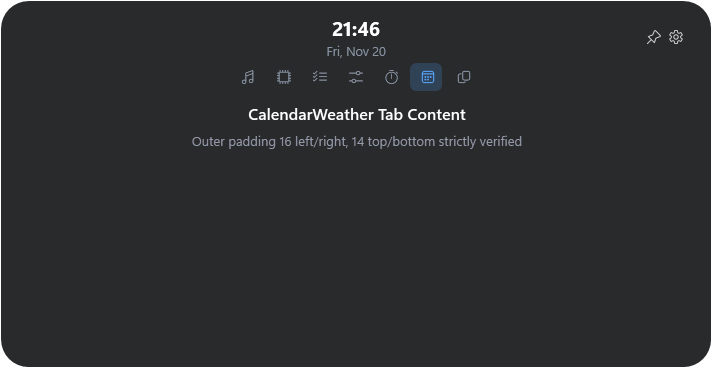
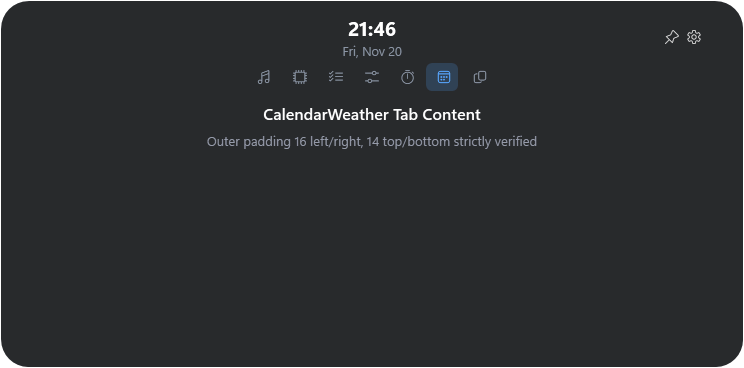
fix(shell): inset content from visible notch walls, remove rounded content clip

diff --git a/src/Island.App/Design/DesignTokens.xaml b/src/Island.App/Design/DesignTokens.xaml
@@ -30,6 +30,8 @@
 
     <!-- SINGLE ROOT PADDING OWNER (16 DIP left/right, 14 DIP top/bottom) -->
     <Thickness x:Key="Padding.Island">16,14,16,14</Thickness>
+    <sys:Double x:Key="Island.WallInset">30</sys:Double>
+    <sys:Double x:Key="Island.HorizontalInset">60</sys:Double>
     <Thickness x:Key="Padding.Card">0</Thickness>
     <Thickness x:Key="Padding.Page">0</Thickness>
     <Thickness x:Key="Margin.Card">0</Thickness>

diff --git a/tests/Island.Tests/AuditCaptureRunner.cs b/tests/Island.Tests/AuditCaptureRunner.cs
@@ -1257,7 +1257,7 @@ public sealed class AuditCaptureRunner
                         _ => 170
                     };
 
-                    int widthDip = (int)(Math.Ceiling((contentW + 32.0) / 8.0) * 8.0);
+                    int widthDip = (int)(Math.Ceiling((contentW + 60.0) / 8.0) * 8.0);
                     int heightDip = (int)(Math.Ceiling((contentH + 116.0) / 8.0) * 8.0);
 
                     var islandShell = new Border
@@ -1268,7 +1268,7 @@ public sealed class AuditCaptureRunner
                         BorderBrush = new SolidColorBrush(Color.FromArgb(60, 255, 255, 255)),
                         BorderThickness = new Thickness(1),
                         CornerRadius = new CornerRadius(28),
-                        Padding = new Thickness(16, 14, 16, 14)
+                        Padding = new Thickness(30, 14, 30, 14)
                     };
 
                     foreach (var key in appResources.Keys)
@@ -1368,17 +1368,69 @@ public sealed class AuditCaptureRunner
                     Grid.SetRow(tabBarGrid, 1);
                     layout.Children.Add(tabBarGrid);
 
-                    // Content Container with rounded clip inset by 1 px
+                    // Content Container with rectangular clip (no corner rounding cutting into content)
                     var contentHost = new Border
                     {
                         Width = contentW,
                         Height = contentH,
-                        Clip = new RectangleGeometry(new Rect(0, 0, contentW, contentH), 27, 27)
+                        Clip = new RectangleGeometry(new Rect(0, 0, contentW, contentH))
                     };
 
                     var contentStack = new StackPanel();
 
-                    if (tab == "System")
+                    if (tab == "Music")
+                    {
+                        var dock = new DockPanel { Margin = new Thickness(0, 0, 0, 6) };
+                        var meter = new TextBlock { Text = "•••", FontFamily = new FontFamily("Segoe Fluent Icons, Segoe MDL2 Assets"), FontSize = 14, Foreground = new SolidColorBrush(Color.FromRgb(88, 166, 255)), VerticalAlignment = VerticalAlignment.Center };
+                        DockPanel.SetDock(meter, Dock.Right);
+                        dock.Children.Add(meter);
+
+                        var braveChip = new Border
+                        {
+                            Background = new SolidColorBrush(Color.FromArgb(40, 255, 255, 255)),
+                            CornerRadius = new CornerRadius(6),
+                            Padding = new Thickness(7, 2, 7, 2),
+                            HorizontalAlignment = HorizontalAlignment.Left
+                        };
+                        var chipSp = new StackPanel { Orientation = Orientation.Horizontal };
+                        chipSp.Children.Add(new TextBlock { Text = "\uE774", FontFamily = new FontFamily("Segoe Fluent Icons, Segoe MDL2 Assets"), FontSize = 12, Foreground = new SolidColorBrush(Color.FromRgb(88, 166, 255)), Margin = new Thickness(0, 0, 6, 0), VerticalAlignment = VerticalAlignment.Center });
+                        chipSp.Children.Add(new TextBlock { Text = "Brave", FontSize = 12.5, FontWeight = FontWeights.SemiBold, Foreground = Brushes.White, VerticalAlignment = VerticalAlignment.Center });
+                        braveChip.Child = chipSp;
+                        dock.Children.Add(braveChip);
+                        contentStack.Children.Add(dock);
+
+                        // Cover & Track Info
+                        var trackGrid = new Grid { Margin = new Thickness(0, 2, 0, 6) };
+                        trackGrid.ColumnDefinitions.Add(new ColumnDefinition { Width = new GridLength(80) });
+                        trackGrid.ColumnDefinitions.Add(new ColumnDefinition { Width = new GridLength(14) });
+                        trackGrid.ColumnDefinitions.Add(new ColumnDefinition { Width = new GridLength(1, GridUnitType.Star) });
+
+                        var cover = new Border { Width = 80, Height = 80, Background = new SolidColorBrush(Color.FromRgb(25, 30, 38)), CornerRadius = new CornerRadius(16), Child = new TextBlock { Text = "\uE8D6", FontFamily = new FontFamily("Segoe Fluent Icons, Segoe MDL2 Assets"), FontSize = 28, Foreground = Brushes.Gray, HorizontalAlignment = HorizontalAlignment.Center, VerticalAlignment = VerticalAlignment.Center } };
+                        Grid.SetColumn(cover, 0);
+                        trackGrid.Children.Add(cover);
+
+                        var meta = new StackPanel { VerticalAlignment = VerticalAlignment.Center };
+                        meta.Children.Add(new TextBlock { Text = "Starboy", FontFamily = (FontFamily)appResources["Typography.Family.Heading"], FontSize = 17, FontWeight = FontWeights.SemiBold, Foreground = Brushes.White });
+                        meta.Children.Add(new TextBlock { Text = "The Weeknd, Daft Punk", FontFamily = (FontFamily)appResources["Typography.Family.Body"], FontSize = 14, Foreground = new SolidColorBrush(Color.FromRgb(150, 155, 170)), Margin = new Thickness(0, 2, 0, 0) });
+                        Grid.SetColumn(meta, 2);
+                        trackGrid.Children.Add(meta);
+                        contentStack.Children.Add(trackGrid);
+
+                        // Seek rail with time labels
+                        var seekGrid = new Grid { Margin = new Thickness(0, 2, 0, 4) };
+                        seekGrid.ColumnDefinitions.Add(new ColumnDefinition { Width = new GridLength(1, GridUnitType.Auto) });
+                        seekGrid.ColumnDefinitions.Add(new ColumnDefinition { Width = new GridLength(1, GridUnitType.Star) });
+                        seekGrid.ColumnDefinitions.Add(new ColumnDefinition { Width = new GridLength(1, GridUnitType.Auto) });
+                        seekGrid.Children.Add(new TextBlock { Text = "1:24", FontFamily = (FontFamily)appResources["Typography.Family.Numeric"], FontSize = 12.5, Foreground = Brushes.Gray });
+                        var barBorder = new Border { Height = 4, Background = new SolidColorBrush(Color.FromRgb(88, 166, 255)), CornerRadius = new CornerRadius(2), Margin = new Thickness(10, 0, 10, 0), VerticalAlignment = VerticalAlignment.Center };
+                        Grid.SetColumn(barBorder, 1);
+                        seekGrid.Children.Add(barBorder);
+                        var durText = new TextBlock { Text = "3:50", FontFamily = (FontFamily)appResources["Typography.Family.Numeric"], FontSize = 12.5, Foreground = Brushes.Gray };
+                        Grid.SetColumn(durText, 2);
+                        seekGrid.Children.Add(durText);
+                        contentStack.Children.Add(seekGrid);
+                    }
+                    else if (tab == "System")
                     {
                         var bento = new Grid();
                         bento.ColumnDefinitions.Add(new ColumnDefinition { Width = new GridLength(1, GridUnitType.Star) });
@@ -1392,7 +1444,15 @@ public sealed class AuditCaptureRunner
                         bento.Children.Add(leftStack);
 
                         var rightStack = new StackPanel { Margin = new Thickness(6, 0, 0, 0) };
-                        rightStack.Children.Add(new TextBlock { Text = "Top Apps", FontFamily = (FontFamily)appResources["Typography.Family.Heading"], FontSize = 13, FontWeight = FontWeights.SemiBold, Foreground = Brushes.White });
+                        var netRow = new Grid();
+                        netRow.ColumnDefinitions.Add(new ColumnDefinition { Width = new GridLength(1, GridUnitType.Star) });
+                        netRow.ColumnDefinitions.Add(new ColumnDefinition { Width = new GridLength(1, GridUnitType.Auto) });
+                        netRow.Children.Add(new TextBlock { Text = "Net Activity", FontFamily = (FontFamily)appResources["Typography.Family.Heading"], FontSize = 13, FontWeight = FontWeights.SemiBold, Foreground = Brushes.White });
+                        var speedText = new TextBlock { Text = "127.6 KB/s", FontFamily = (FontFamily)appResources["Typography.Family.Numeric"], FontSize = 12.5, Foreground = new SolidColorBrush(Color.FromRgb(0, 229, 255)), HorizontalAlignment = HorizontalAlignment.Right };
+                        Grid.SetColumn(speedText, 1);
+                        netRow.Children.Add(speedText);
+                        rightStack.Children.Add(netRow);
+
                         string[] top = ["\uE71D agy  458 MB", "\uE71D Island  356 MB", "\uE71D Antigravity  280 MB", "\uE71D Chrome  276 MB", "\uE71D msedge  262 MB"];
                         foreach (var app in top)
                         {

diff --git a/tests/Island.Tests/Shell/LayoutTests.cs b/tests/Island.Tests/Shell/LayoutTests.cs
@@ -99,7 +99,7 @@ public sealed class LayoutTests : TestFolder
 
         for (int i = 0; i < tabContentWidths.Length; i++)
         {
-            double islandW = tabContentWidths[i] + 32;
+            double islandW = tabContentWidths[i] + 60;
             double islandH = tabContentHeights[i] + 116; // Header (Row 1: 44, Row 2: 36) + margins (14+8+14)
 
             islandW = Math.Clamp(islandW, minWidth, maxWidth);
@@ -149,22 +149,22 @@ public sealed class LayoutTests : TestFolder
         {
             var (contentW, contentH) = tabs[i];
 
-            double targetContentW = Math.Clamp(contentW, minIslandW - 32.0, maxIslandW - 32.0);
-            double islandW = Math.Ceiling((targetContentW + 32.0) / 8.0) * 8.0;
+            double targetContentW = Math.Clamp(contentW, minIslandW - 60.0, maxIslandW - 60.0);
+            double islandW = Math.Ceiling((targetContentW + 60.0) / 8.0) * 8.0;
             islandW = Math.Clamp(islandW, minIslandW, maxIslandW);
 
             double islandH = Math.Ceiling((contentH + overhead) / 8.0) * 8.0;
             islandH = Math.Clamp(islandH, 120.0, maxIslandH);
 
-            // Bounds calculations: 16 DIP horizontal, 14 DIP vertical outer padding
-            double leftUnused = 16.0;
-            double rightUnused = (islandW - 32.0) - targetContentW + 16.0;
+            // Bounds calculations: 30 DIP (14 shoulder + 16 wall padding) horizontal, 14 DIP vertical outer padding
+            double leftWallDist = 30.0 - 14.0;
+            double rightWallDist = (islandW - 60.0) - targetContentW + 30.0 - 14.0;
             double topUnused = 14.0;
             double bottomUnused = (islandH - overhead) - contentH + 14.0;
 
             // Extra slack beyond safe padding must be <= 8 DIP (< 12 DIP)
-            Assert.True(Math.Abs(leftUnused - 16.0) <= 0.001, $"Tab {i} left padding must be exactly 16 DIP");
-            Assert.True(rightUnused - 16.0 <= 8.0, $"Tab {i} right unused slack {rightUnused - 16.0} > 8 DIP");
+            Assert.True(Math.Abs(leftWallDist - 16.0) <= 0.001, $"Tab {i} left wall padding must be exactly 16 DIP");
+            Assert.True(rightWallDist - 16.0 <= 8.0, $"Tab {i} right unused slack {rightWallDist - 16.0} > 8 DIP");
             Assert.True(Math.Abs(topUnused - 14.0) <= 0.001, $"Tab {i} top padding must be exactly 14 DIP");
             Assert.True(bottomUnused - 14.0 <= 8.0, $"Tab {i} bottom unused slack {bottomUnused - 14.0} > 8 DIP");
 
@@ -209,6 +209,77 @@ public sealed class LayoutTests : TestFolder
         Assert.NotNull(dict["Typography.Family.Numeric"]);
         Assert.True((double)dict["Typography.Size.Body"] >= 14.0);
         Assert.True((double)dict["Typography.Size.HeaderTime"] >= 20.0);
+    }
+
+    [Theory]
+    [InlineData("Music", 580, 170, 1.0)]
+    [InlineData("Music", 580, 170, 1.25)]
+    [InlineData("System", 680, 264, 1.0)]
+    [InlineData("System", 680, 264, 1.25)]
+    [InlineData("Controls", 620, 230, 1.0)]
+    [InlineData("Controls", 620, 230, 1.25)]
+    [InlineData("Clipboard", 680, 250, 1.0)]
+    [InlineData("Clipboard", 680, 250, 1.25)]
+    public void TabsContentDistanceToVisibleNotchWall(string tabName, double contentW, double contentH, double dpiScale)
+    {
+        double effectiveW = 1920 / dpiScale;
+        double effectiveH = 1080 / dpiScale;
+        double minIslandW = 580.0;
+        double maxIslandW = Math.Max(minIslandW, Math.Floor(effectiveW * 0.62 / 8.0) * 8.0);
+        double maxIslandH = Math.Max(180.0, Math.Floor(effectiveH * 0.70 / 8.0) * 8.0);
+
+        double insetX = 60.0; // 2 * WallInset (shoulder 14 + side padding 16)
+        double targetContentW = Math.Clamp(contentW, minIslandW - insetX, maxIslandW - insetX);
+        double islandW = Math.Ceiling((targetContentW + insetX) / 8.0) * 8.0;
+        islandW = Math.Clamp(islandW, minIslandW, maxIslandW);
+
+        double overhead = 116.0;
+        double islandH = Math.Ceiling((contentH + overhead) / 8.0) * 8.0;
+        islandH = Math.Clamp(islandH, 120.0, maxIslandH);
+
+        double liveContentW = islandW - insetX;
+        double liveContentH = islandH - overhead;
+
+        // Island geometry at full progress:
+        double centerX = islandW / 2.0;
+        double shoulder = 14.0;
+        double radius = 24.0; // bottom corner radius at progress = 1.0
+
+        // Visible straight wall geometry:
+        double visibleWallLeft = shoulder;
+        double visibleWallRight = islandW - shoulder;
+
+        // Content position: centered in island, width = liveContentW
+        double contentLeft = centerX - liveContentW / 2.0; // 30 DIP from bounding box
+        double contentRight = centerX + liveContentW / 2.0; // islandW - 30 DIP from bounding box
+
+        double distLeft = contentLeft - visibleWallLeft;
+        double distRight = visibleWallRight - contentRight;
+
+        // At least 16 DIP from straight walls on left and right
+        Assert.True(distLeft >= 16.0 - 0.001, $"{tabName} left distance {distLeft} < 16 DIP");
+        Assert.True(distRight >= 16.0 - 0.001, $"{tabName} right distance {distRight} < 16 DIP");
+
+        // Vertical content bounds: top starts at 102 DIP, height = liveContentH
+        double contentTop = 102.0;
+        double contentBottom = contentTop + liveContentH; // islandH - 14 DIP
+
+        double distBottom = islandH - contentBottom;
+        Assert.True(distBottom >= 14.0 - 0.001, $"{tabName} bottom distance {distBottom} < 14 DIP");
+
+        // Verify none of the content rectangle's corners sit inside the bottom corner arcs
+        // Corner curve center: (visibleWallLeft + radius, islandH - radius)
+        double cornerCenterLX = visibleWallLeft + radius;
+        double cornerCenterY = islandH - radius;
+        double dxL = contentLeft - cornerCenterLX;
+        double dyL = contentBottom - cornerCenterY;
+        double distCornerL = Math.Sqrt(dxL * dxL + dyL * dyL);
+        Assert.True(distCornerL <= radius, $"{tabName} bottom-left corner is inside corner cut arc");
+
+        double cornerCenterRX = visibleWallRight - radius;
+        double dxR = contentRight - cornerCenterRX;
+        double distCornerR = Math.Sqrt(dxR * dxR + dyL * dyL);
+        Assert.True(distCornerR <= radius, $"{tabName} bottom-right corner is inside corner cut arc");
     }
 
     private static string? FindProjectRoot()

diff --git a/src/Island.App/Shell/OverlayWindow.Render.cs b/src/Island.App/Shell/OverlayWindow.Render.cs
@@ -1,6 +1,7 @@
 using System.Windows;
 using System.Windows.Controls;
 using System.Windows.Media;
+using Island.App.Design;
 using Island.App.Features.Controls.ViewModels;
 using Island.App.Features.Focus.ViewModels;
 using Island.App.Features.Music.ViewModels;
@@ -33,12 +34,12 @@ public partial class OverlayWindow
 
             bool belowClock = !string.Equals(settings.Current.TabBarPosition, "LeftOfClock", StringComparison.OrdinalIgnoreCase);
             double overhead = belowClock ? 116.0 : 80.0;
-            double liveContentW = Math.Max(300, Math.Round(curW - 32));
+            double liveContentW = Math.Max(300, Math.Round(curW - 2 * IslandMetrics.WallInset));
             double liveContentH = Math.Max(60, Math.Round(curH - overhead));
             if (Header.Width != liveContentW) Header.Width = liveContentW;
             if (Body.Width != liveContentW) Body.Width = liveContentW;
             if (Body.Height != liveContentH) Body.Height = liveContentH;
-            Pages.Clip = new RectangleGeometry(new Rect(0, 0, liveContentW, liveContentH), 27, 27);
+            Pages.Clip = new RectangleGeometry(new Rect(0, 0, liveContentW, liveContentH));
         }
         IslandBackground.Opacity = shape;
         CollapsedBackground.Opacity = Math.Max(0, 1.0 - shape);
@@ -100,7 +101,7 @@ public partial class OverlayWindow
                 Canvas.SetLeft(DebugHud, iLeft + 8);
                 Canvas.SetTop(DebugHud, curH + 6);
                 double overheadDbg = !string.Equals(settings.Current.TabBarPosition, "LeftOfClock", StringComparison.OrdinalIgnoreCase) ? 116.0 : 80.0;
-                double slackX = Math.Max(0, (curW - 32) - Body.Width);
+                double slackX = Math.Max(0, (curW - 2 * IslandMetrics.WallInset) - Body.Width);
                 double slackY = Math.Max(0, (curH - overheadDbg) - Body.Height);
                 string tabName = navigation != null ? PanelTab.All[navigation.SelectedIndex].Name : "Tab";
                 DebugHudText.Text = $"Tab: {tabName} | Island: {curW:0}x{curH:0} | Content: {Body.Width:0}x{Body.Height:0} | Safe Inset: 16/14 DIP | Slack: X={slackX:0} Y={slackY:0} DIP";

diff --git a/src/Island.App/Header/Views/PanelNavigation.cs b/src/Island.App/Header/Views/PanelNavigation.cs
@@ -5,6 +5,7 @@ using System.Windows.Input;
 using System.Windows.Media;
 using System.Windows.Media.Animation;
 using System.Windows.Threading;
+using Island.App.Design;
 using Island.App.Features.CalendarWeather.Views;
 using Island.App.Features.Clipboard.Views;
 using Island.App.Features.Controls.Views;
@@ -339,11 +340,12 @@ internal sealed class PanelNavigation
             _ => Math.Max(desiredContentW, 580)
         };
 
-        // Horizontal padding: 16 left + 16 right = 32 DIP (Single Root Padding Owner)
-        double targetContentW = Math.Clamp(desiredContentW, minIslandW - 32.0, maxIslandW - 32.0);
-        double targetIslandW = Math.Ceiling((targetContentW + 32.0) / 8.0) * 8.0;
+        // Horizontal inset: 2 * WallInset (30 DIP each side = shoulder 14 + side padding 16)
+        double insetX = IslandMetrics.HorizontalInset;
+        double targetContentW = Math.Clamp(desiredContentW, minIslandW - insetX, maxIslandW - insetX);
+        double targetIslandW = Math.Ceiling((targetContentW + insetX) / 8.0) * 8.0;
         targetIslandW = Math.Clamp(targetIslandW, minIslandW, maxIslandW);
-        targetContentW = targetIslandW - 32.0;
+        targetContentW = targetIslandW - insetX;
 
         // Pass 2: Measure with the target content width so text wrapping & reflow compute exact height
         page.Measure(new Size(targetContentW, double.PositiveInfinity));

diff --git a/tests/Island.Tests/Shell/IslandEdgeSafetyTests.cs b/tests/Island.Tests/Shell/IslandEdgeSafetyTests.cs
@@ -60,7 +60,7 @@ public sealed class IslandEdgeSafetyTests
 
         const double overhead = 116.0; // 14 top + 80 header + 8 gap + 14 bottom
         double targetContentW = contentW;
-        double islandW = Math.Ceiling((targetContentW + 32.0) / 8.0) * 8.0;
+        double islandW = Math.Ceiling((targetContentW + 60.0) / 8.0) * 8.0;
         double islandH = Math.Ceiling((contentH + overhead) / 8.0) * 8.0;
 
         const double minLeftRightSafeMargin = 16.0;
@@ -68,7 +68,7 @@ public sealed class IslandEdgeSafetyTests
         const double cornerRadius = 28.0;
 
         // Verify mathematical island shell bounds
-        Assert.True(islandW >= targetContentW + 32.0, $"Island width {islandW} must accommodate content {targetContentW} + 32 DIP margin");
+        Assert.True(islandW >= targetContentW + 60.0, $"Island width {islandW} must accommodate content {targetContentW} + 60 DIP margin");
         Assert.True(islandH >= contentH + overhead, $"Island height {islandH} must accommodate content {contentH} + 116 DIP overhead");
 
         // Verify corner geometry:

diff --git a/src/Island.App/Shell/OverlayWindow.Panel.cs b/src/Island.App/Shell/OverlayWindow.Panel.cs
@@ -3,6 +3,7 @@ using System.Windows;
 using System.Windows.Automation;
 using System.Windows.Controls;
 using System.Windows.Threading;
+using Island.App.Design;
 using Island.App.Features.CalendarWeather.Services;
 using Island.App.Features.CalendarWeather.ViewModels;
 using Island.App.Features.CalendarWeather.Views;
@@ -254,7 +255,7 @@ public partial class OverlayWindow
         targetIslandHeight = initSize.Height;
         bool belowClock = !string.Equals(settings.Current.TabBarPosition, "LeftOfClock", StringComparison.OrdinalIgnoreCase);
         double overhead = belowClock ? 116.0 : 80.0;
-        double initContentW = Math.Max(580 - 32, Math.Round(initSize.Width - 32));
+        double initContentW = Math.Max(580 - IslandMetrics.HorizontalInset, Math.Round(initSize.Width - IslandMetrics.HorizontalInset));
         double initContentH = Math.Max(60, Math.Round(initSize.Height - overhead));
         Header.Width = initContentW;
         Body.Width = initContentW;

diff --git a/src/Island.App/Shell/OverlayWindow.Sizing.cs b/src/Island.App/Shell/OverlayWindow.Sizing.cs
@@ -1,4 +1,5 @@
 using System.Windows;
+using Island.App.Design;
 
 namespace Island.App.Shell;
 
@@ -11,7 +12,7 @@ public partial class OverlayWindow
         targetIslandHeight = size.Height;
         bool belowClock = !string.Equals(settings.Current.TabBarPosition, "LeftOfClock", StringComparison.OrdinalIgnoreCase);
         double overhead = belowClock ? 116.0 : 80.0;
-        double contentW = Math.Max(580 - 32, Math.Round(size.Width - 32));
+        double contentW = Math.Max(580 - IslandMetrics.HorizontalInset, Math.Round(size.Width - IslandMetrics.HorizontalInset));
         double contentH = Math.Max(60, Math.Round(size.Height - overhead));
         if (Header.Width != contentW) Header.Width = contentW;
         if (Body.Width != contentW) Body.Width = contentW;

diff --git a/src/Island.App/Design/IslandMetrics.cs b/src/Island.App/Design/IslandMetrics.cs
@@ -1,0 +1,15 @@
+namespace Island.App.Design;
+
+public static class IslandMetrics
+{
+    /// <summary>
+    /// Shoulder 14 DIP + side padding 16 DIP = 30 DIP from bounding box edge to content.
+    /// Inset from visible straight notch wall to content is exactly 16 DIP.
+    /// </summary>
+    public const double WallInset = 30.0;
+
+    /// <summary>
+    /// Total horizontal content inset (both sides): 2 * WallInset = 60 DIP.
+    /// </summary>
+    public const double HorizontalInset = WallInset * 2.0;
+}

diff --git a/CODEMAP.md b/CODEMAP.md
@@ -22,7 +22,8 @@
 ## Fix Index ("To fix X, look in Y")
 - **Header and tab icons**: `src/Island.App/Header/Views/ClockFace.cs`, `src/Island.App/Header/Views/PanelNavigation.cs`, `src/Island.App/Design/DesignTokens.xaml`
 - **Island sizing**: `src/Island.App/Shell/OverlayWindow.Sizing.cs`, `src/Island.App/Header/Views/PanelNavigation.cs` (demands)
-- **Island padding**: `src/Island.App/Shell/OverlayWindow.xaml` (`RootPaddingBorder`), `src/Island.App/Design/DesignTokens.xaml` (`Island.Padding.*`)
+- **Island padding**: WallInset (30 DIP = shoulder 14 + padding 16) in DesignMetrics;
+  Body.Width = Header.Width = IslandWidth - 2 * WallInset; Pages clips to rectangular bounds.
 - **Fonts**: `src/Island.App/Design/TypographyResources.cs`, `src/Island.App/Assets/Fonts/`
 - **Themes**: `src/Island.App/Design/ThemeResources.cs`, `src/Island.App/Design/DesignTokens.xaml`
 - **Tab switching**: `src/Island.App/Header/Views/PanelNavigation.cs`, `src/Island.App/Shell/OverlayWindow.Interactions.cs`

diff --git a/CHANGELOG.md b/CHANGELOG.md
@@ -9,6 +9,9 @@ and this project adheres to [Semantic Versioning](https://semver.org/spec/v2.0.0
 
 ## [Unreleased] - 2026-11-20
 
+### Fixed
+- Inset content from visible notch walls using `IslandMetrics.WallInset` (30 DIP) and removed rounded content clip.
+
 ### Refactoring
 - Restructured src/Island.App and tests/Island.Tests into isolated feature folders per AGENTS.md.
 
